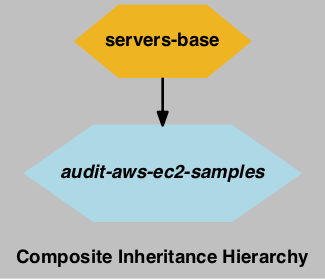
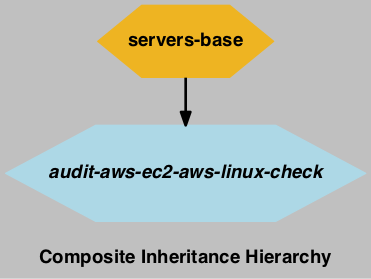
VAR change

diff --git a/README.md b/README.md
@@ -14,31 +14,23 @@ This repo is designed to work with CloudCoreo. This composite is a collection of
 
 ## Required variables with no default
 
-### `AUDIT_AWS_EC2_TAG_EXAMPLE_ALERT_RECIPIENT`:
-  * description: email recipient for notification
+### `AUDIT_AWS_EC2_LINUX_CHECK_RECIPIENT`:
+  * description: this is who the full json report goes to
 
 
 ## Required variables with default
 
-### `AUDIT_AWS_EC2_TAG_EXAMPLE_ALLOW_EMPTY`:
+### `AUDIT_AWS_EC2_LINUX_CHECK_ALLOW_EMPTY`:
   * description: receive empty reports?
   * default: false
 
-### `AUDIT_AWS_EC2_TAG_EXAMPLE_SEND_ON`:
+### `AUDIT_AWS_EC2_LINUX_CHECK_SEND_ON`:
   * description: always or change
   * default: change
 
-### `AUDIT_AWS_EC2_TAG_EXAMPLE_EXPECTED_TAGS`:
-  * description: the tag we want to see on instances
-  * default: "EXAMPLE_TAG_1", "EXAMPLE_TAG_2"
-
-### `AUDIT_AWS_EC2_TAG_EXAMPLE_TAG_LOGIC`:
-  * description: "or" or "and"
-  * default: "and"
-
-### `AUDIT_AWS_EC2_TAG_EXAMPLE_REGIONS`:
+### `AUDIT_AWS_EC2_LINUX_CHECK_REGIONS`:
   * description: list of AWS regions to check. Default is all regions
-  * default: us-east-1, us-west-1, us-west-2
+  * default: us-east-1, us-east-2, us-west-1, us-west-2, eu-west-1
 
 ### `REGION`:
   * description: 
@@ -47,7 +39,9 @@ This repo is designed to work with CloudCoreo. This composite is a collection of
 
 ## Optional variables with default
 
-**None**
+### `AUDIT_AWS_EC2_LINUX_CHECK_OWNER_TAG`:
+  * description: Enter an AWS tag whose value is an email address of owner of the ELB object. (Optional)
+  * default: NOT_A_TAG
 
 
 ## Optional variables with no default
